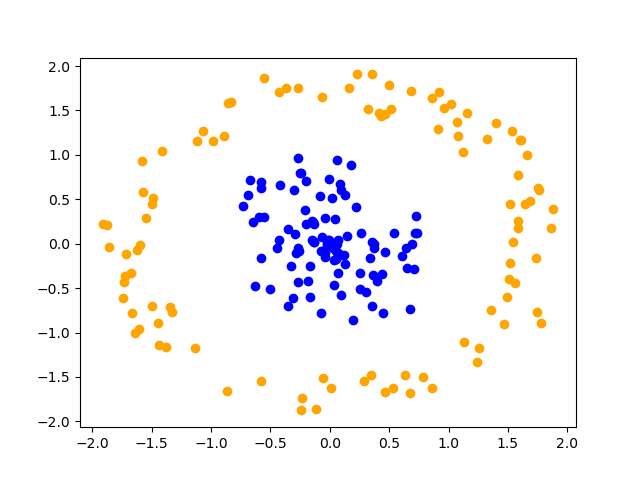
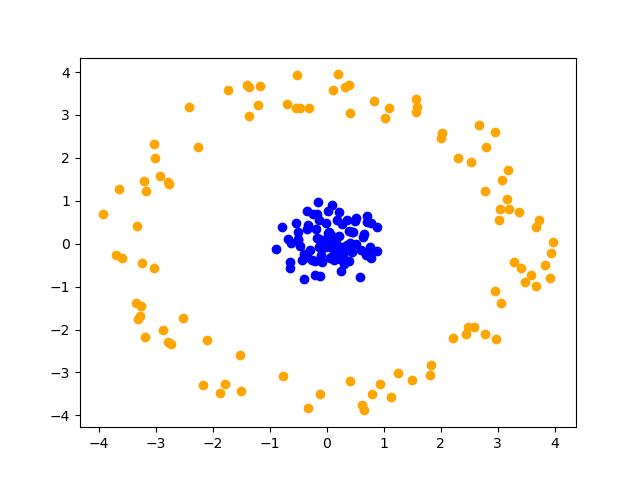
Modified data generation to have greater separation between classes

diff --git a/synth_data_gen.py b/synth_data_gen.py
@@ -15,7 +15,7 @@ inner_ring_points = np.stack(
 
 # Create outer ring
 outer_angles = rng.uniform(0, 2 * np.pi, size=100)
-outer_radii = rng.uniform(1.5, 2, size=100)
+outer_radii = rng.uniform(3, 4, size=100)
 
 outer_ring_points = np.stack(
     [outer_radii * np.cos(outer_angles), outer_radii * np.sin(outer_angles)]
